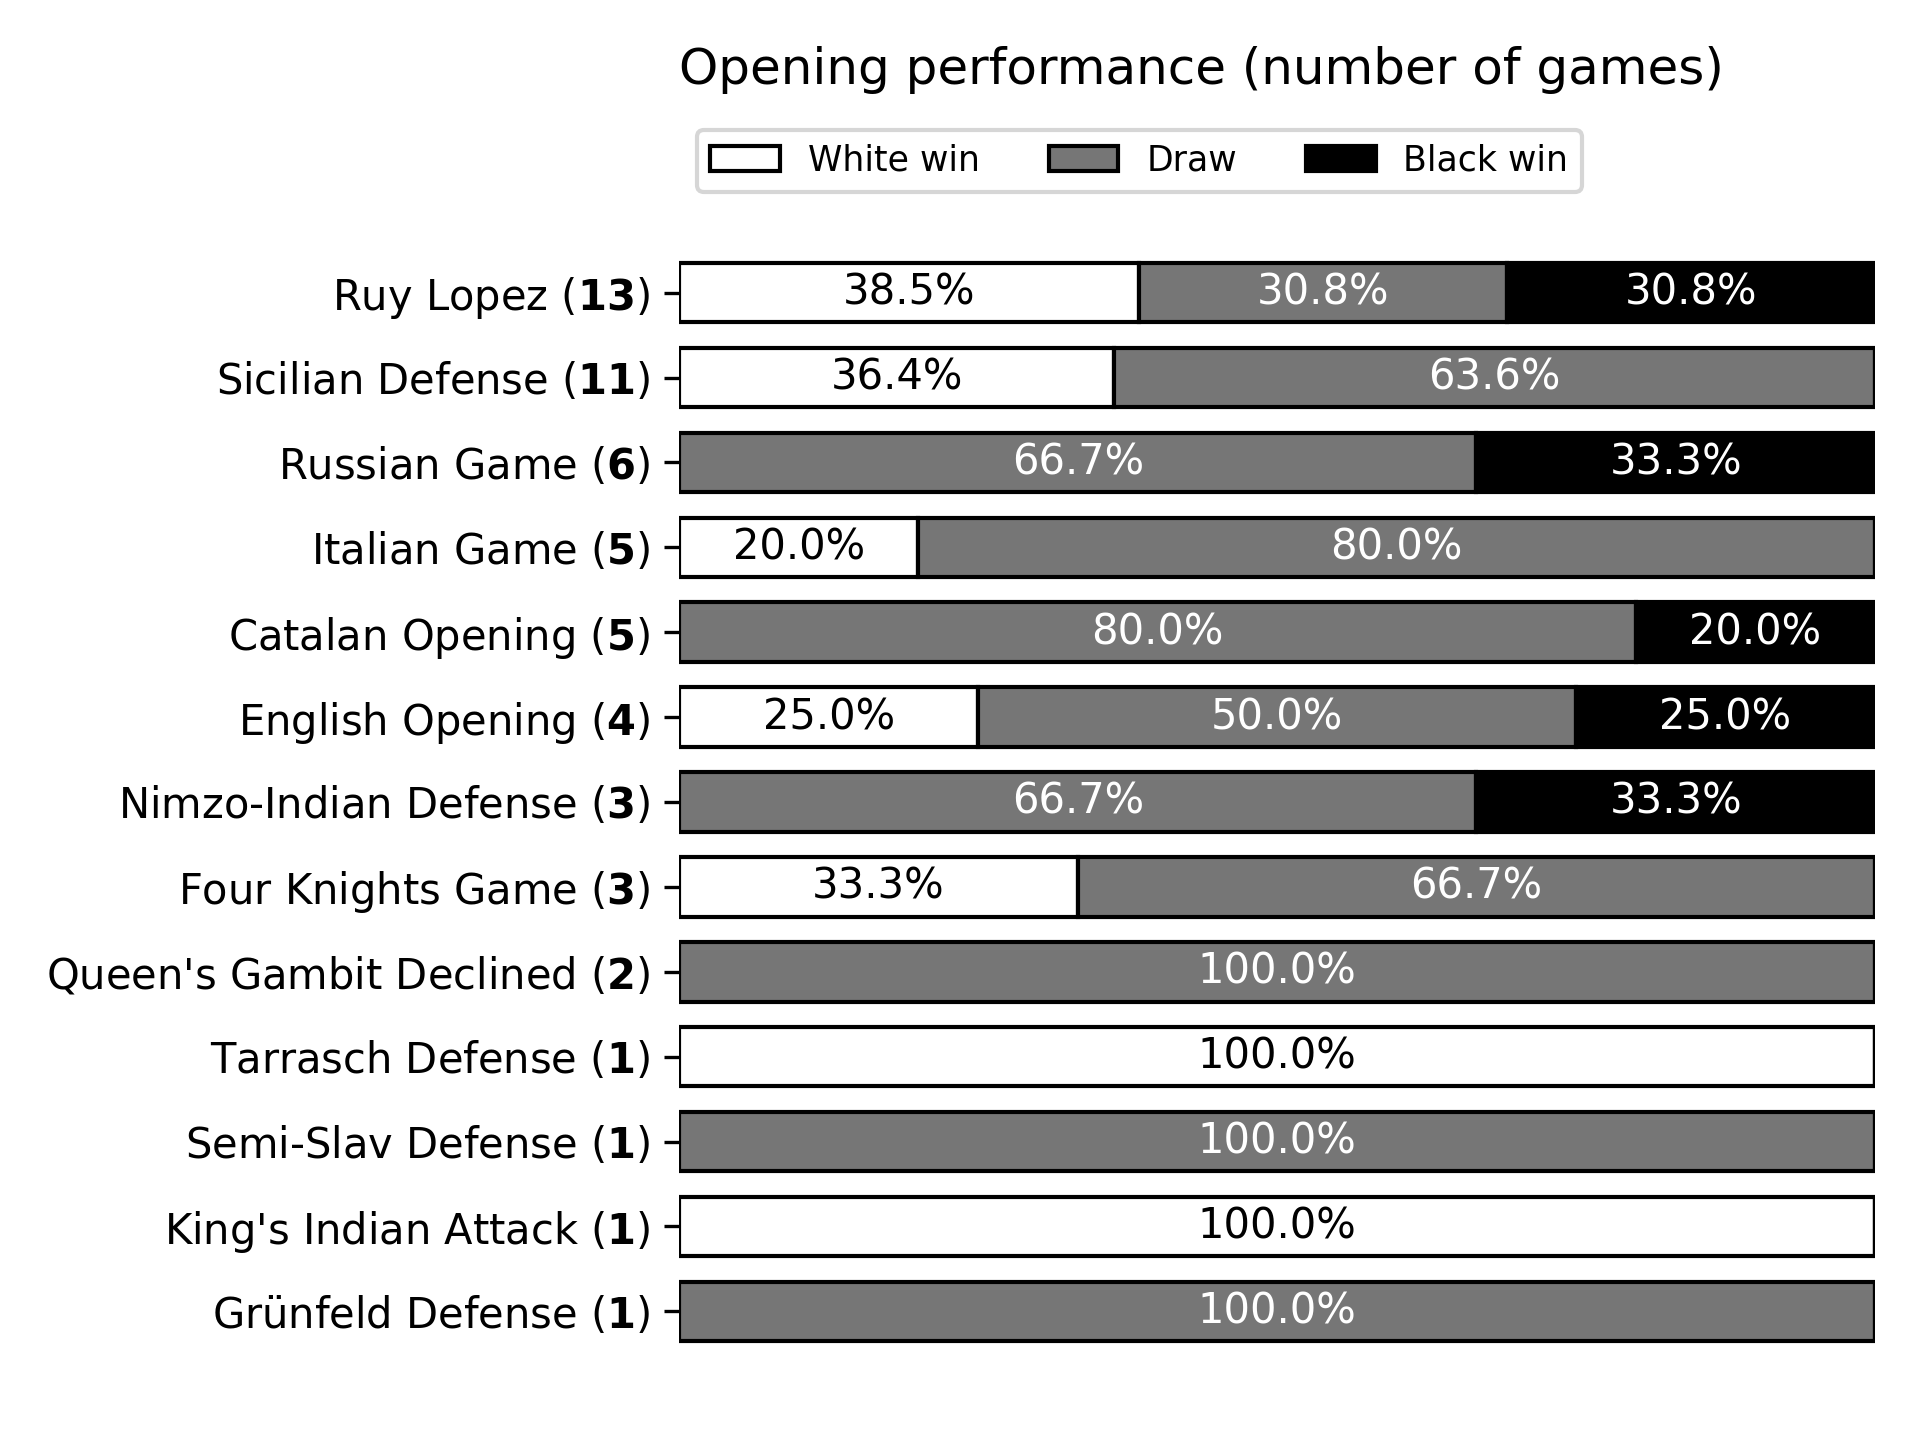
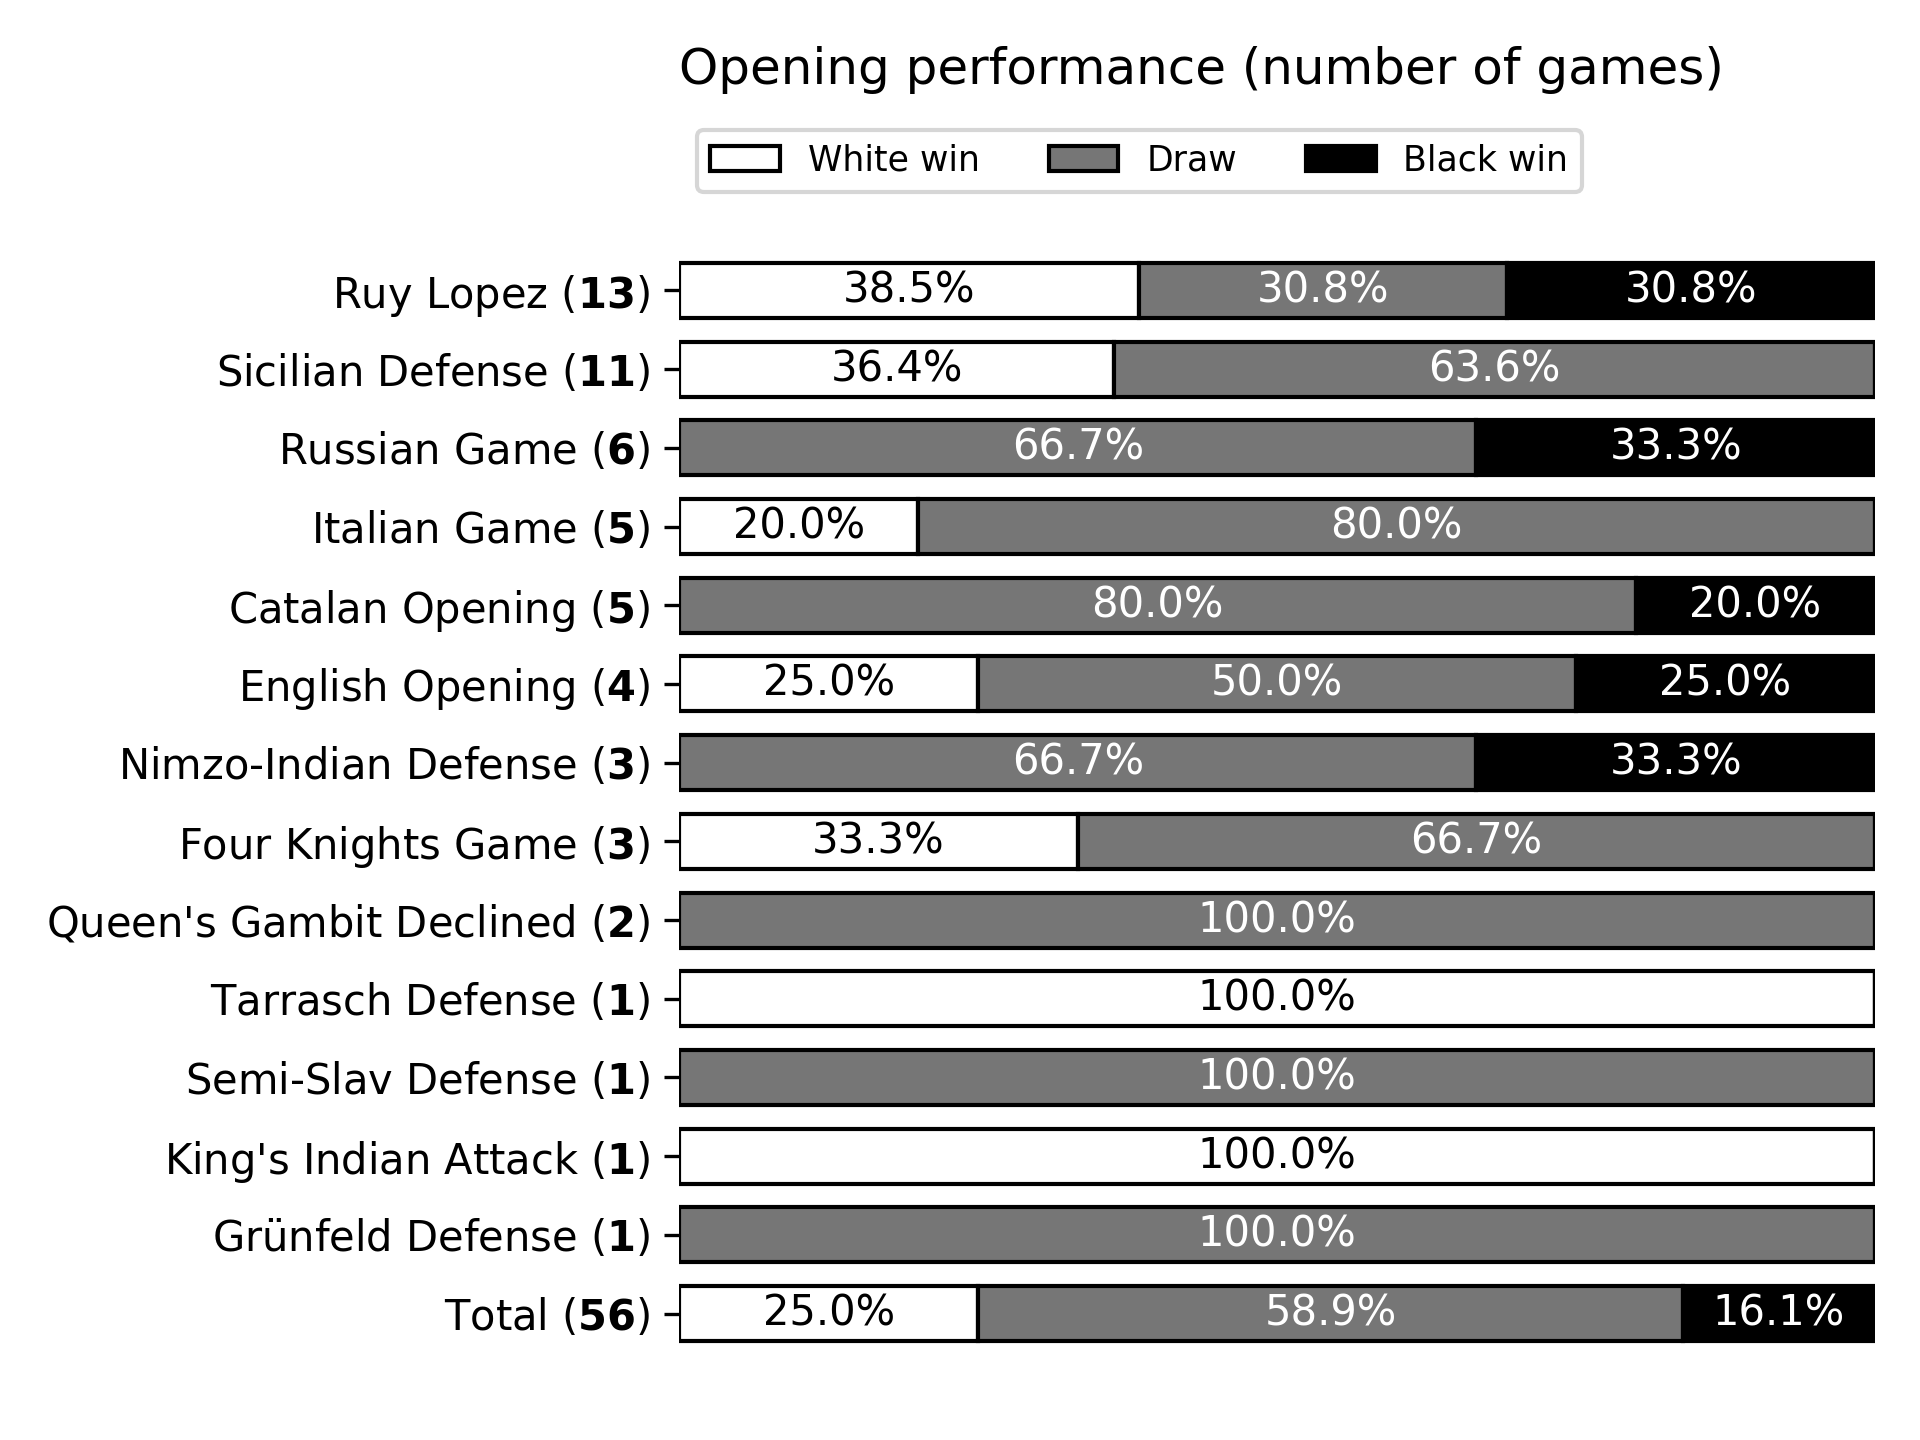
added totals to opening performance chart

diff --git a/src/plot.py b/src/plot.py
@@ -48,9 +48,17 @@ def plot_opening_categories(df: pd.DataFrame) -> None:
 
 
 def plot_opening_performance(df: pd.DataFrame) -> None:
+
+    # determine number of white win/draw/black win results for each opening
     possible_results = ["white_win", "draw", "black_win"]
     perf_df = df.groupby(["opening_category"]).sum()
     perf_df["total"] = perf_df[possible_results].sum(axis=1)
+
+    # stash totals for later
+    total_row = perf_df.sum().drop(["result", "total"])
+    total_games = total_row.sum()
+
+    # calculate white win/draw/black win percentages
     for res in possible_results:
         perf_df[f"{res}_percent"] = perf_df[res] / perf_df["total"] * 100
     perf_df.drop(possible_results, axis=1, inplace=True)
@@ -66,12 +74,23 @@ def plot_opening_performance(df: pd.DataFrame) -> None:
         )
     )
 
-    label = lambda x: rf"{x} ($\bf{df['opening_category'].value_counts()[x]}$)"
-    labels = [label(i) for i in results.keys()]
+    # generate labels of the form: Opening (n_games)
+    label = lambda x, f: rf"{x} ($\bf{f(x)}$)"
+    lookup_value_count = lambda x: df["opening_category"].value_counts()[x]
+    labels = [label(i, lookup_value_count) for i in results.keys()]
+
+    # convert results into array
     data = np.array(list(results.values()))
+
+    # insert overall white/black/draw performance into labels and data
+    total_row = total_row / total_row.sum() * 100
+    labels.insert(0, label("Total", lambda _: total_games))
+    data = np.vstack([total_row.tolist(), data])
+
     data_cum = data.cumsum(axis=1)
     colours = [COLOURS[i] for i in possible_results]
 
+    # make hbars
     fig, ax = plt.subplots()
     for i, (colour, result) in enumerate(zip(colours, possible_results)):
         pretty_result = result.replace("_", " ").capitalize()
@@ -95,6 +114,7 @@ def plot_opening_performance(df: pd.DataFrame) -> None:
             color=text_colour,
         )
 
+    # customize appearance
     ax.set_title("Opening performance (number of games)", loc="left", pad=30)
     ax.legend(
         ncol=len(possible_results),
